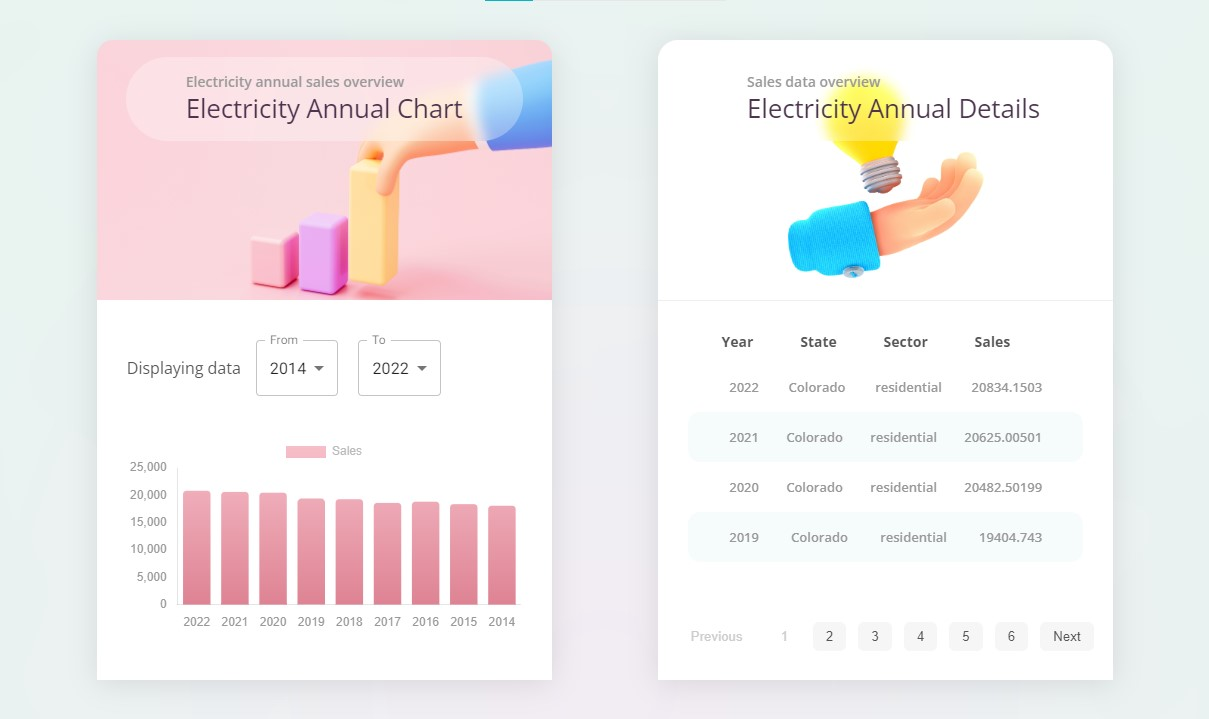
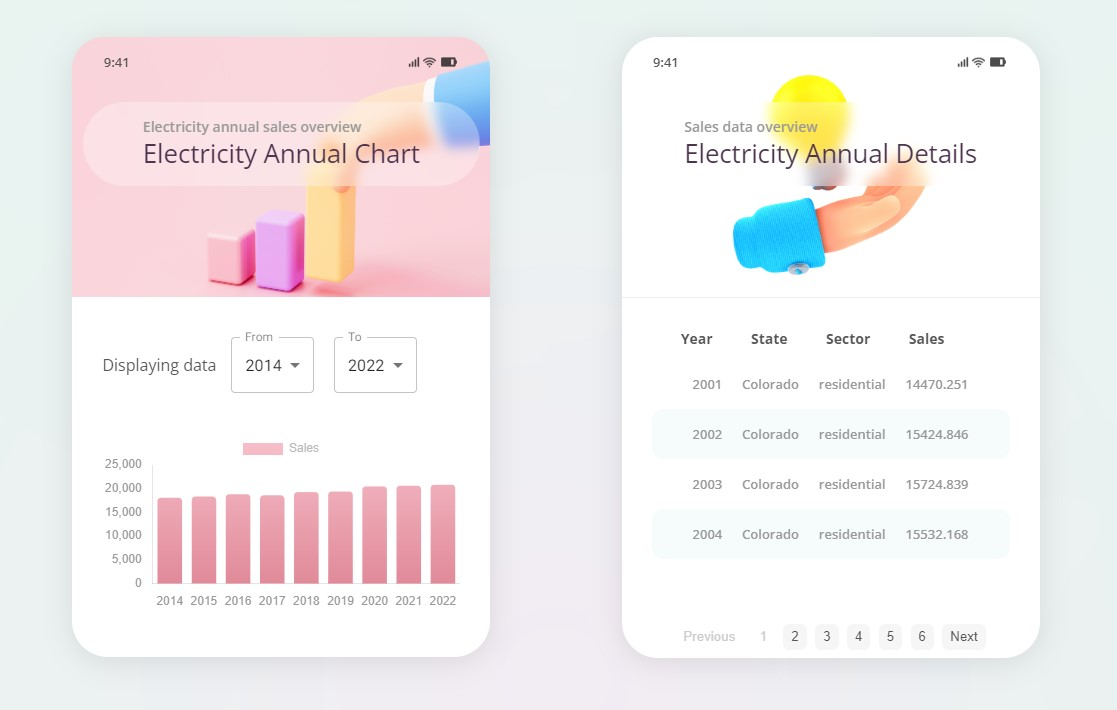
update ui design

diff --git a/src/styles/App.styles.tsx b/src/styles/App.styles.tsx
@@ -25,17 +25,56 @@ export const Container = styled.div`
 
   > div {
     height: 90%;
-
     background: #fff;
-    border-radius: 20px 20px 0 0;
-
+    border-radius: 36px;
     box-shadow: 0 4px 30px rgba(0, 0, 0, 0.1);
+  }
+
+  .status-bar {
+    display: flex;
+    display: flex;
+    align-items: center;
+    justify-content: space-between;
+    width: 85%;
+    margin-top: 15px;
+
+    .time {
+      font-size: 13px;
+      font-weight: 600;
+    }
+
+    .icons {
+      display: flex;
+      align-items: center;
+      opacity: 0.7;
+
+      img {
+        display: block;
+        outline: none;
+        border: none;
+      }
+
+      img.battery {
+        width: 20px;
+        height: 20px;
+      }
+      img.signal {
+        width: 12px;
+        height: 12px;
+        margin-right: 3px;
+      }
+      img.wifi {
+        width: 13px;
+        height: 13px;
+        margin-right: 3px;
+      }
+    }
   }
 
   > div:first-child {
     display: flex;
     flex-direction: column;
-    width: 37%;
+    width: 34%;
     position: relative;
 
     .top-chart {
@@ -46,7 +85,7 @@ export const Container = styled.div`
       height: 260px;
       background: url(chart.jpg) no-repeat center top;
       background-size: auto 326px;
-      border-radius: 16px 16px 0 0;
+      border-radius: 32px 32px 0 0;
 
       .header-box {
         height: auto;
@@ -61,12 +100,12 @@ export const Container = styled.div`
 
     .bottom-chart {
       height: auto;
-      padding: 40px 30px 30px 30px;
+      padding: 40px 30px 45px 30px;
     }
   }
 
   > div:last-child {
-    width: 37%;
+    width: 34%;
     position: relative;
 
     .top-table {
@@ -79,7 +118,8 @@ export const Container = styled.div`
       background: url(hand.jpg) no-repeat center;
       background-size: auto 200px;
       background-position-y: 38px;
-      border-radius: 16px 16px 0 0;
+      border-radius: 32px 32px 0 0;
+
       .header-box {
         height: auto;
         margin: 30px auto;

diff --git a/src/App.tsx b/src/App.tsx
@@ -33,7 +33,15 @@ const App: React.FC = () => {
         <Container>
           <div>
             <div className="top-chart">
-              {" "}
+              <div className="status-bar">
+                <div className="time">9:41</div>
+                <div className="icons">
+                  <img src="signal.png" className="signal" alt="signal" />
+
+                  <img src="wifi.png" className="wifi" alt="wifi" />
+                  <img src="battery.png" className="battery" alt="battery" />
+                </div>
+              </div>
               <div className="header-box">
                 <p>Electricity annual sales overview</p>
                 <h3>Electricity Annual Chart</h3>
@@ -45,6 +53,14 @@ const App: React.FC = () => {
           </div>
           <div>
             <div className="top-table">
+              <div className="status-bar">
+                <div className="time">9:41</div>
+                <div className="icons">
+                  <img src="signal.png" className="signal" alt="signal" />
+                  <img src="wifi.png" className="wifi" alt="wifi" />
+                  <img src="battery.png" className="battery" alt="battery" />
+                </div>
+              </div>
               <div className="header-box">
                 <p>Sales data overview</p>
                 <h3>Electricity Annual Details</h3>

diff --git a/dist/index.html b/dist/index.html
@@ -11,7 +11,7 @@
   <link rel="icon" href="/Data-Visualization-Chartjs-React-Typescript/assets/favicon-e50a169b.ico" />
   <meta name="viewport" content="width=device-width, initial-scale=1.0" />
   <title>Data Visualization</title>
-  <script type="module" crossorigin src="/Data-Visualization-Chartjs-React-Typescript/assets/index-b2f56101.js"></script>
+  <script type="module" crossorigin src="/Data-Visualization-Chartjs-React-Typescript/assets/index-f063c97d.js"></script>
   <link rel="stylesheet" href="/Data-Visualization-Chartjs-React-Typescript/assets/index-17727e74.css">
 </head>
 
